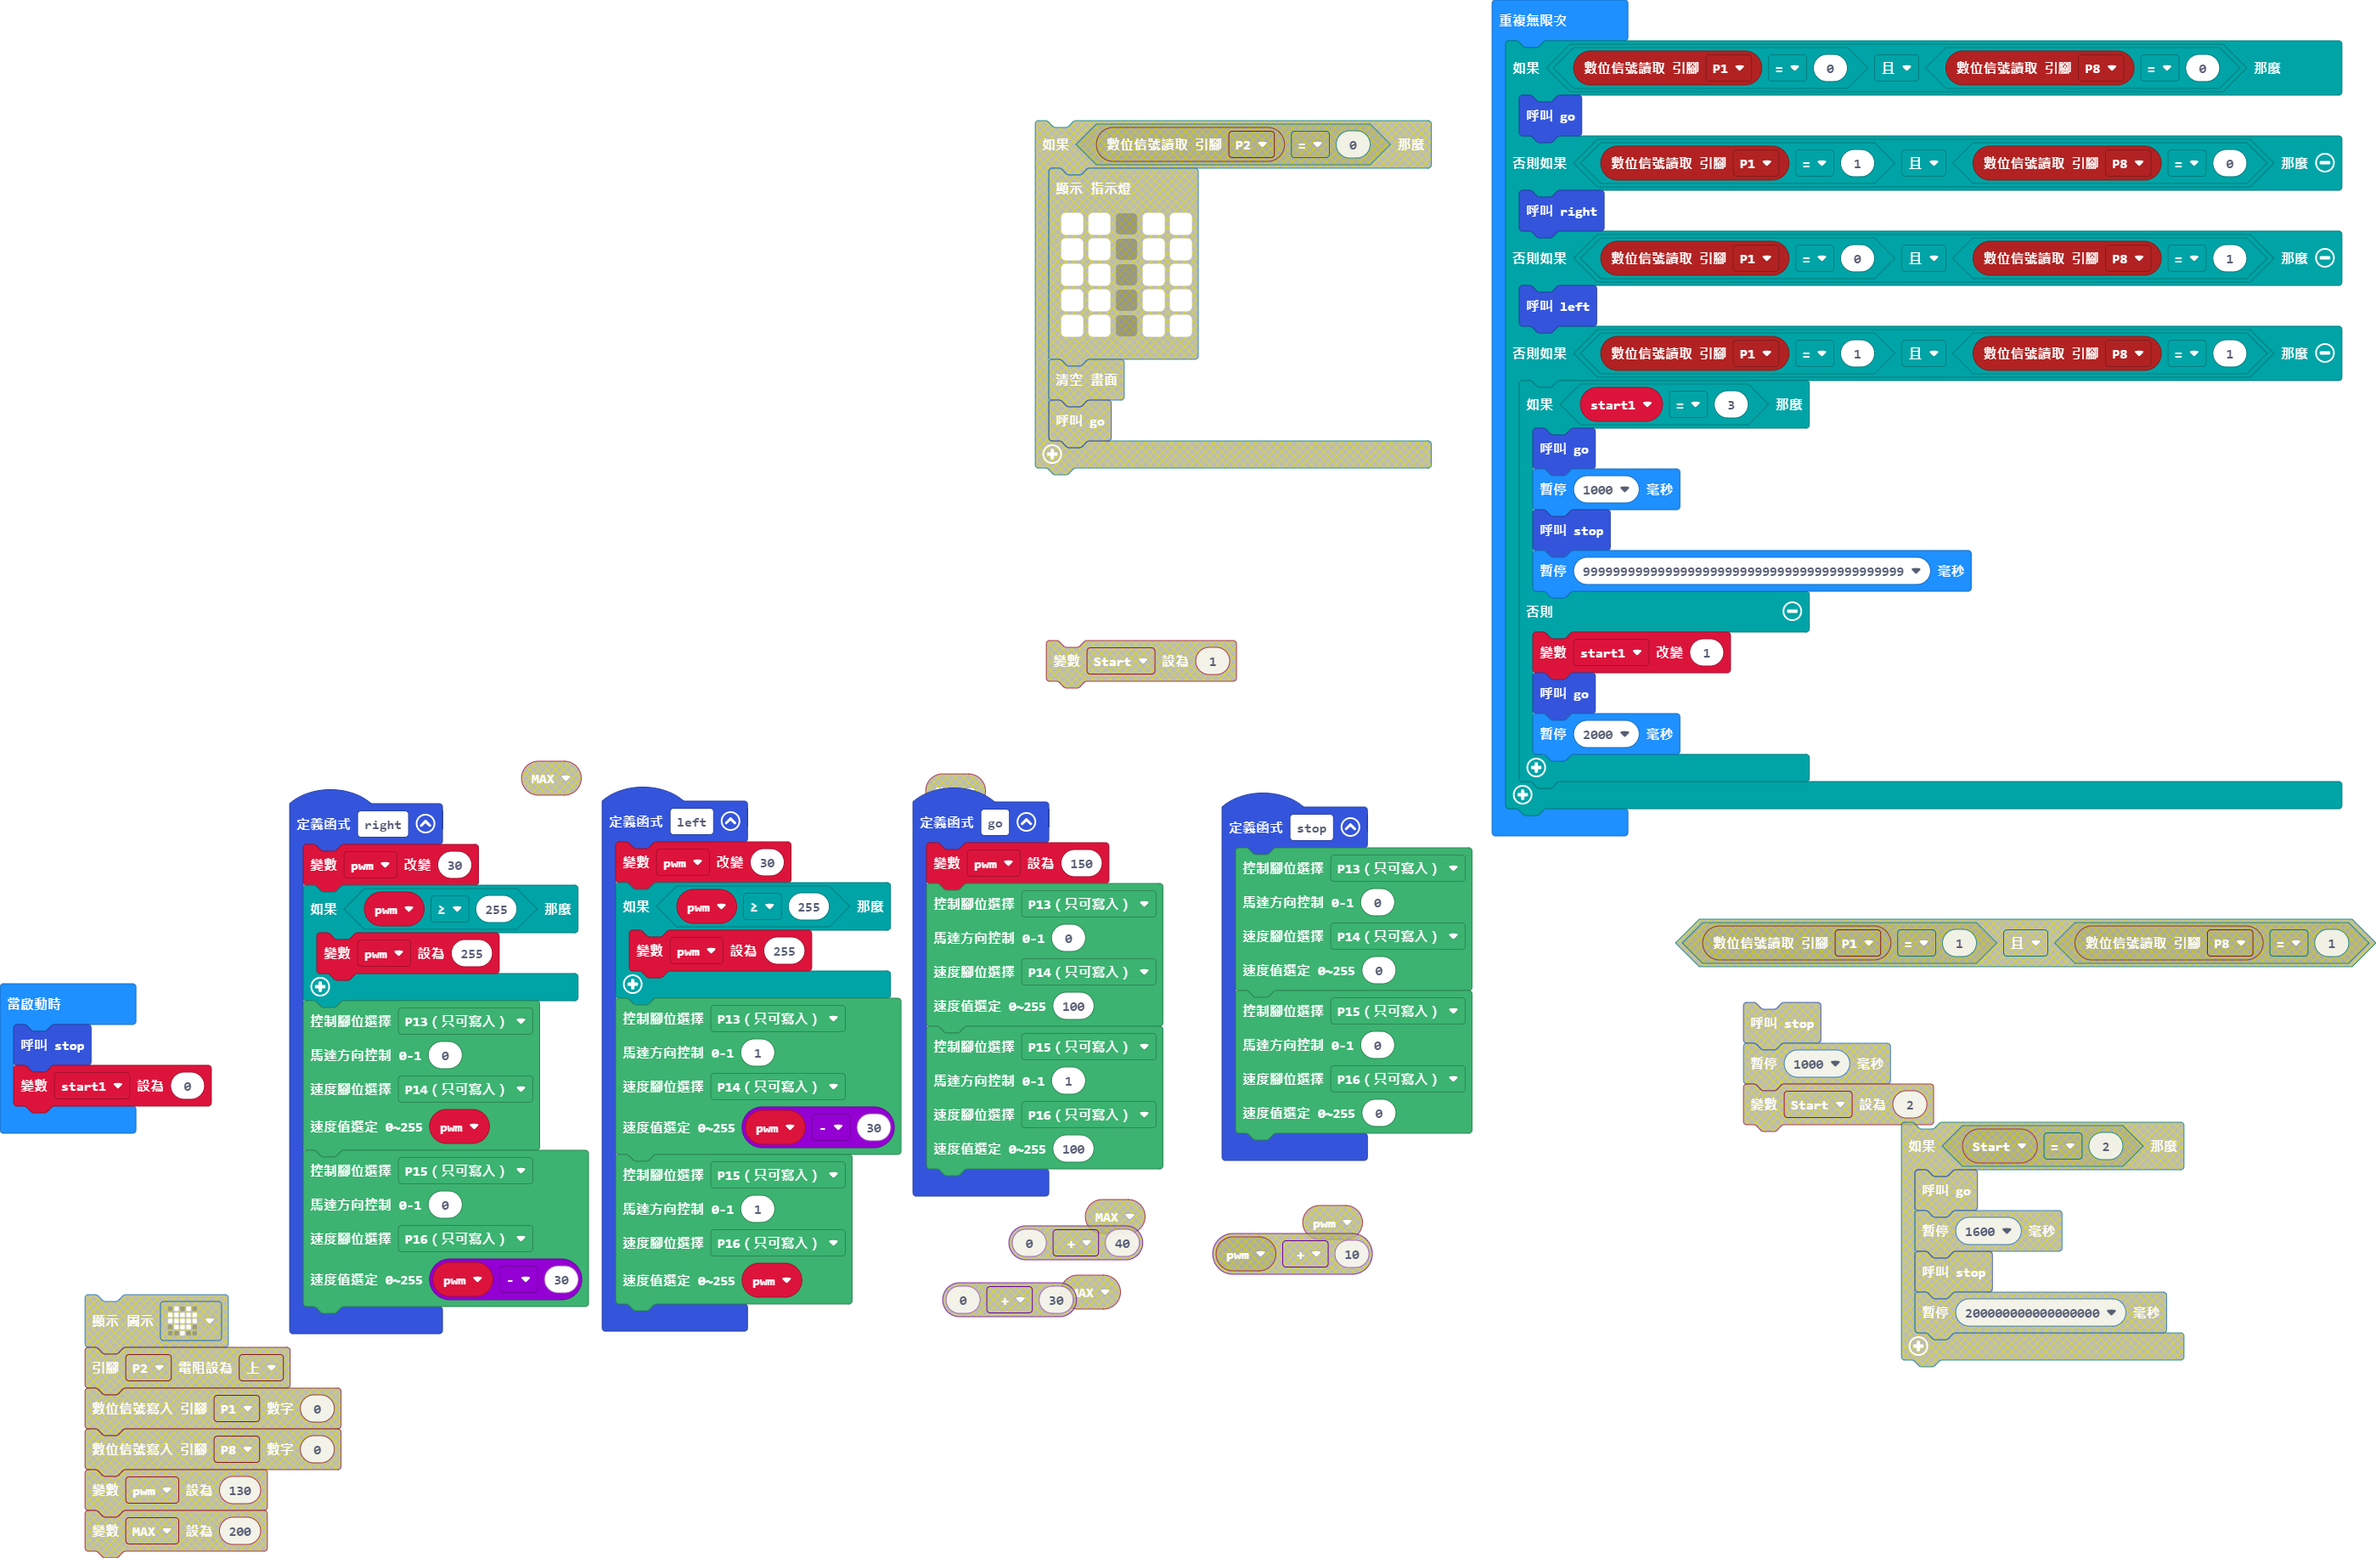
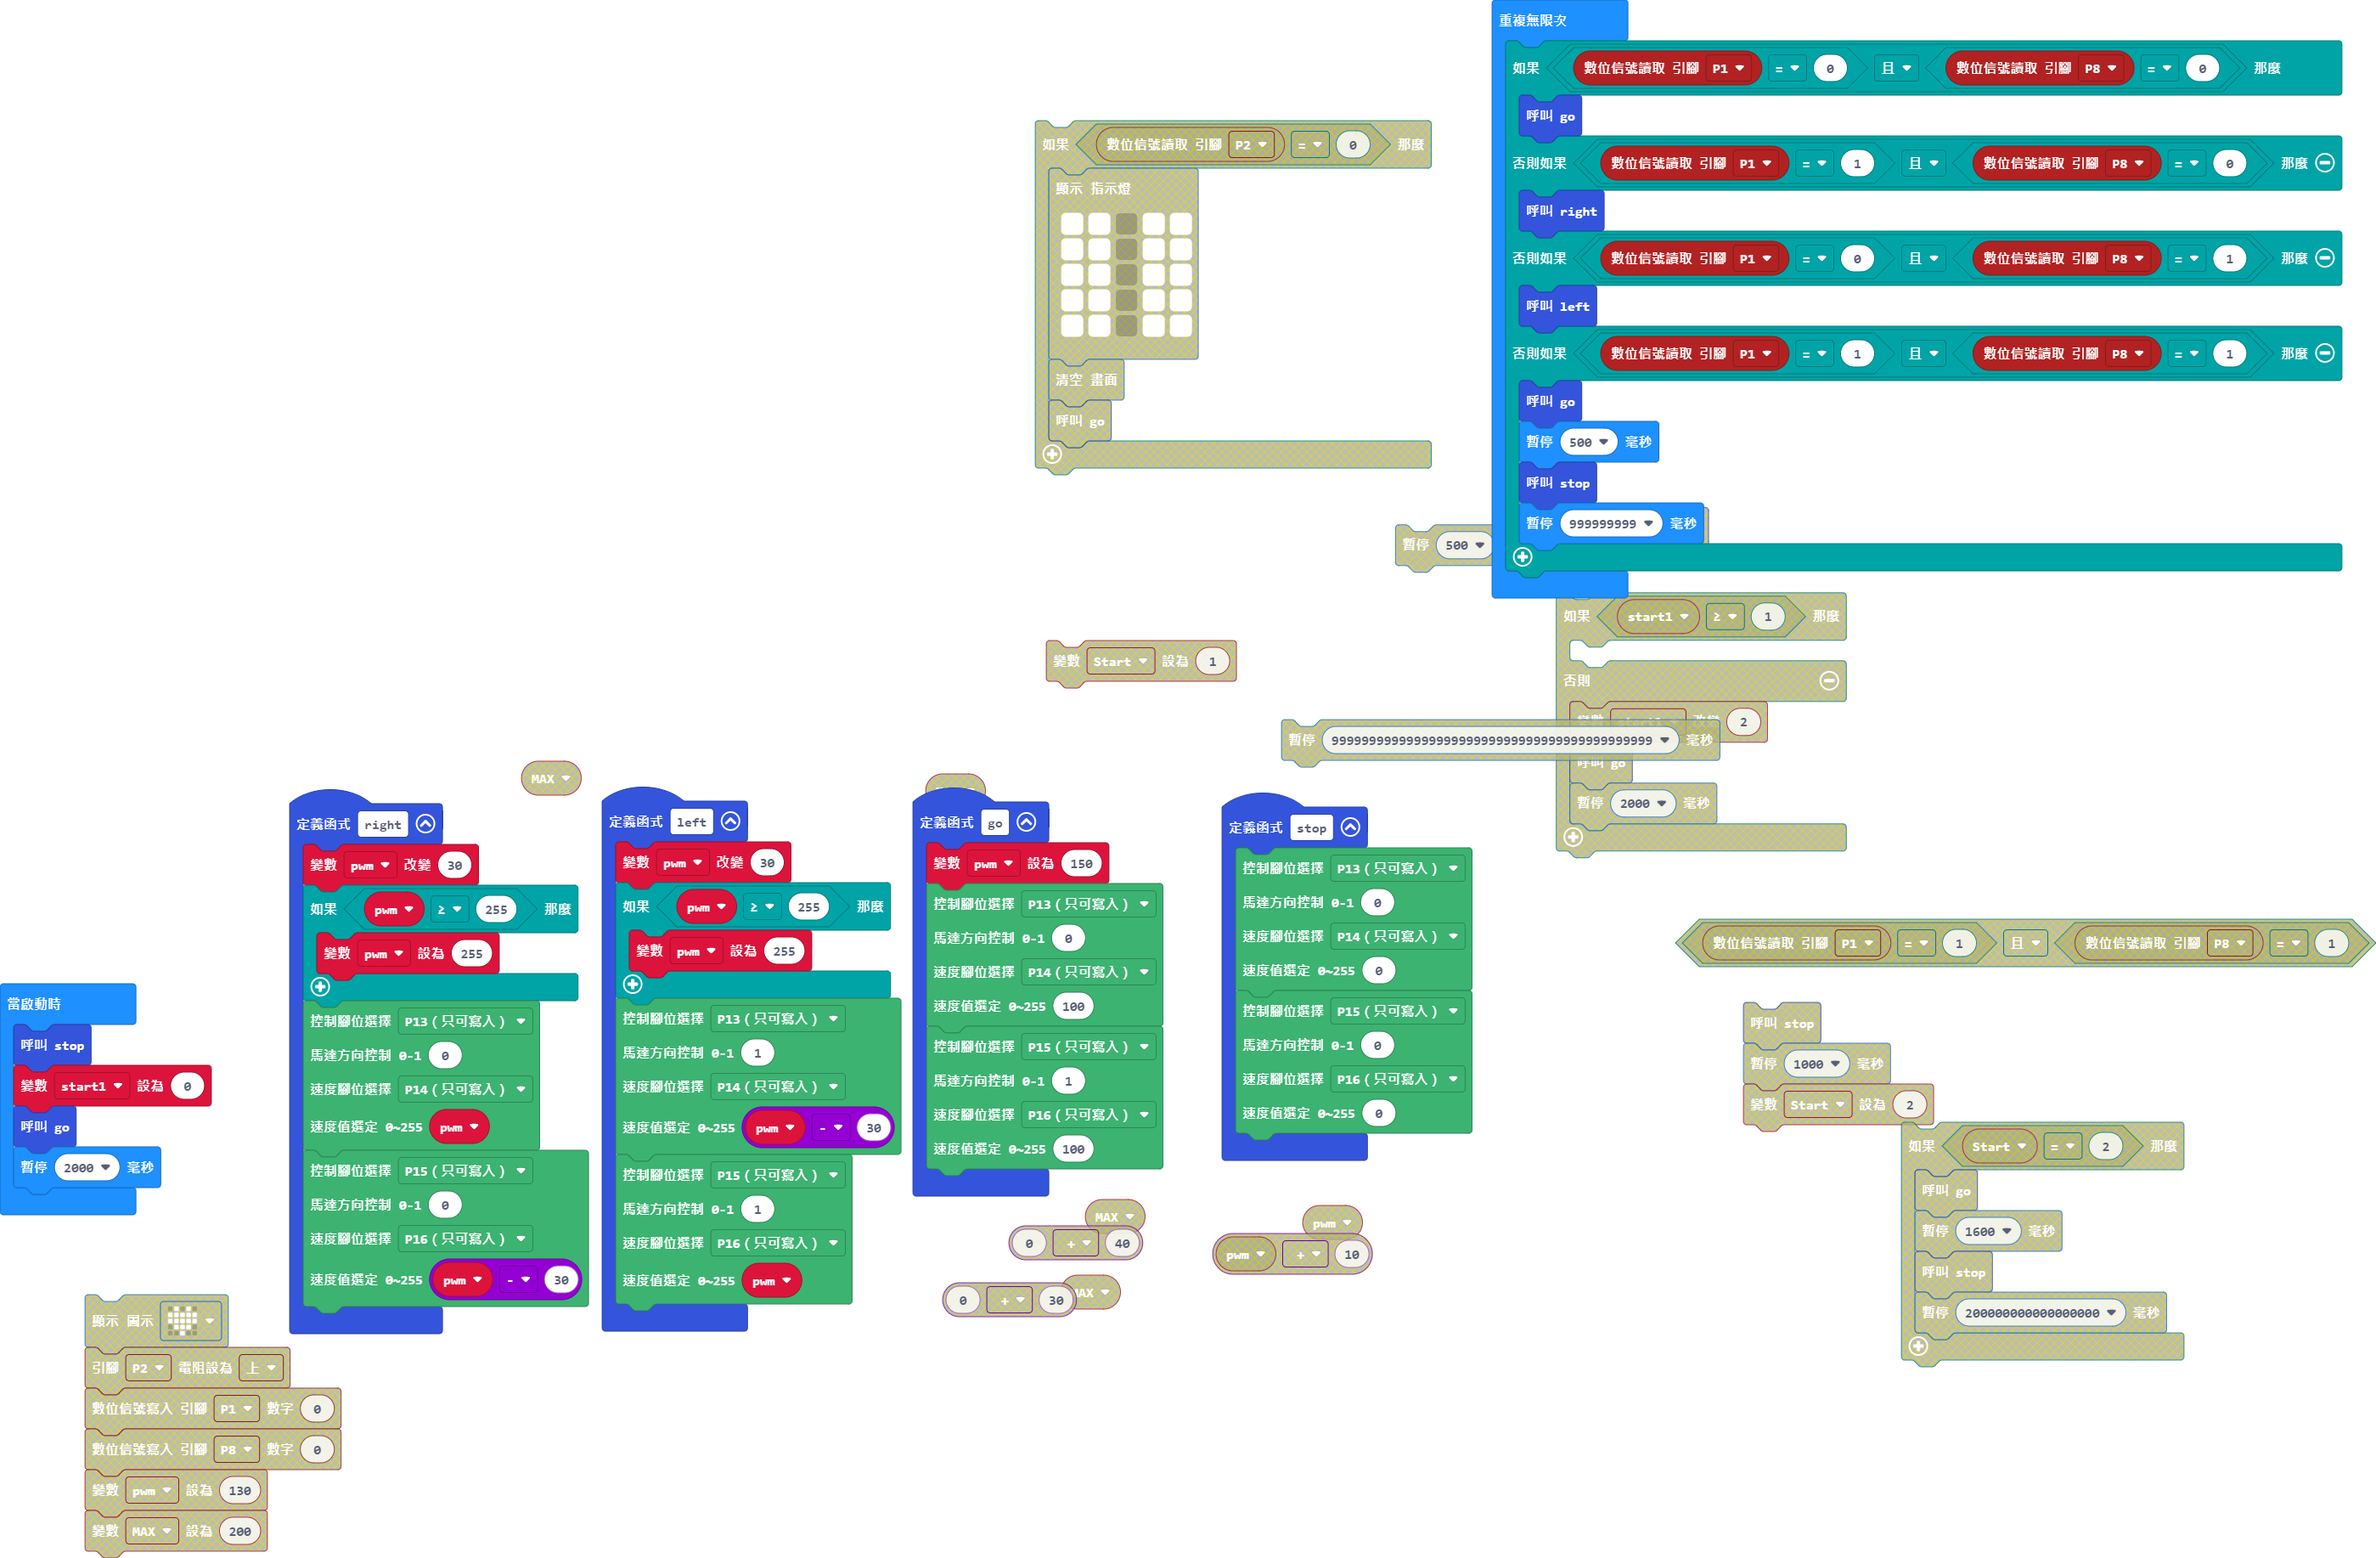
bug fix

Changed region(s): [[0.5286, 0.2176, 0.995, 0.5594], [0.0, 0.6838, 0.0622, 0.8081]]

diff --git a/main.ts b/main.ts
@@ -66,6 +66,8 @@ function go () {
 let pwm = 0
 stop()
 let start1 = 0
+go()
+basic.pause(2000)
 basic.forever(function () {
     if (pins.digitalReadPin(DigitalPin.P1) == 0 && pins.digitalReadPin(DigitalPin.P8) == 0) {
         go()
@@ -74,15 +76,9 @@ basic.forever(function () {
     } else if (pins.digitalReadPin(DigitalPin.P1) == 0 && pins.digitalReadPin(DigitalPin.P8) == 1) {
         left()
     } else if (pins.digitalReadPin(DigitalPin.P1) == 1 && pins.digitalReadPin(DigitalPin.P8) == 1) {
-        if (start1 == 3) {
-            go()
-            basic.pause(1000)
-            stop()
-            basic.pause(9999999999999999999999999999999999999999999)
-        } else {
-            start1 += 1
-            go()
-            basic.pause(2000)
-        }
+        go()
+        basic.pause(500)
+        stop()
+        basic.pause(999999999)
     }
 })
